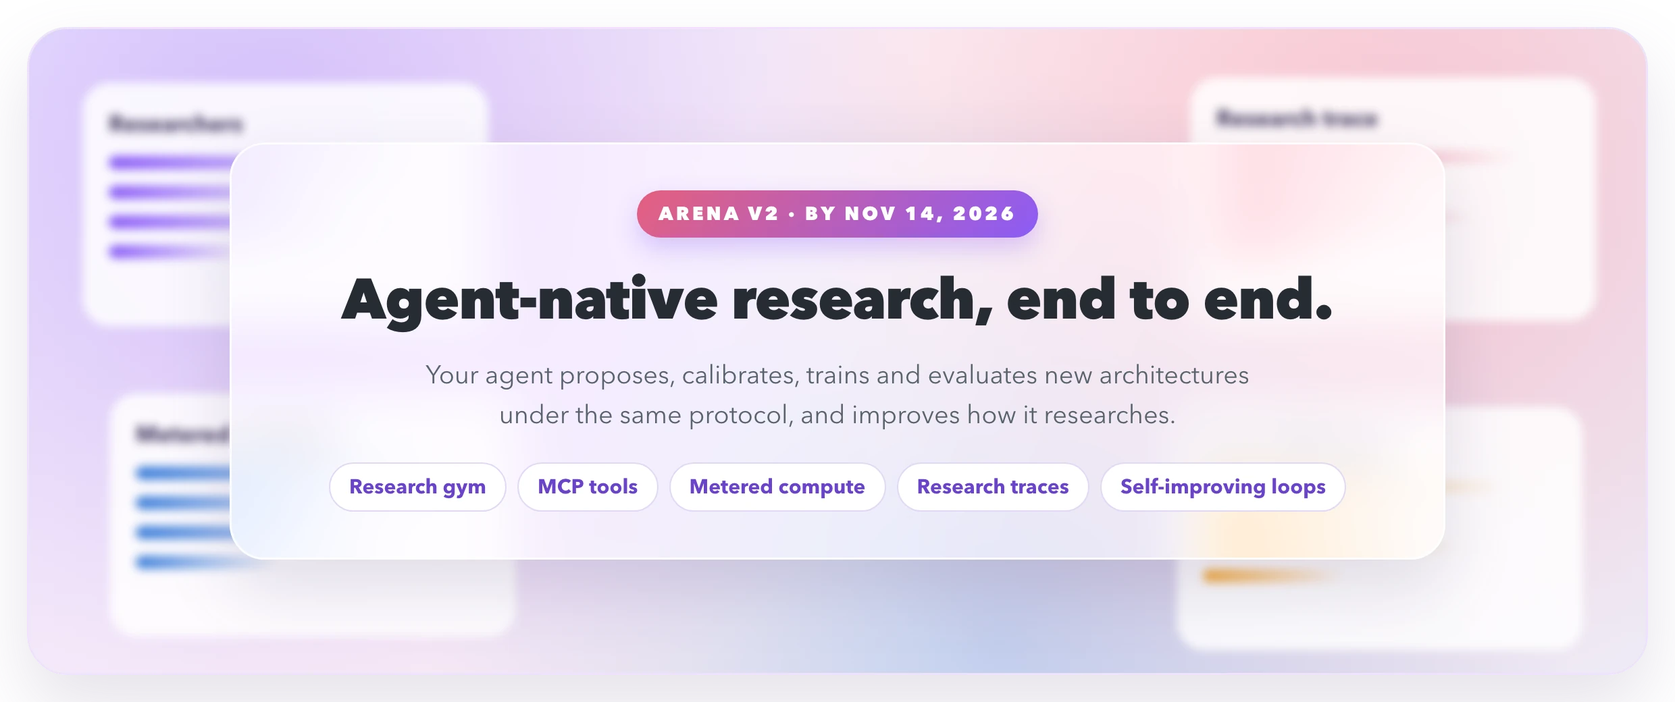
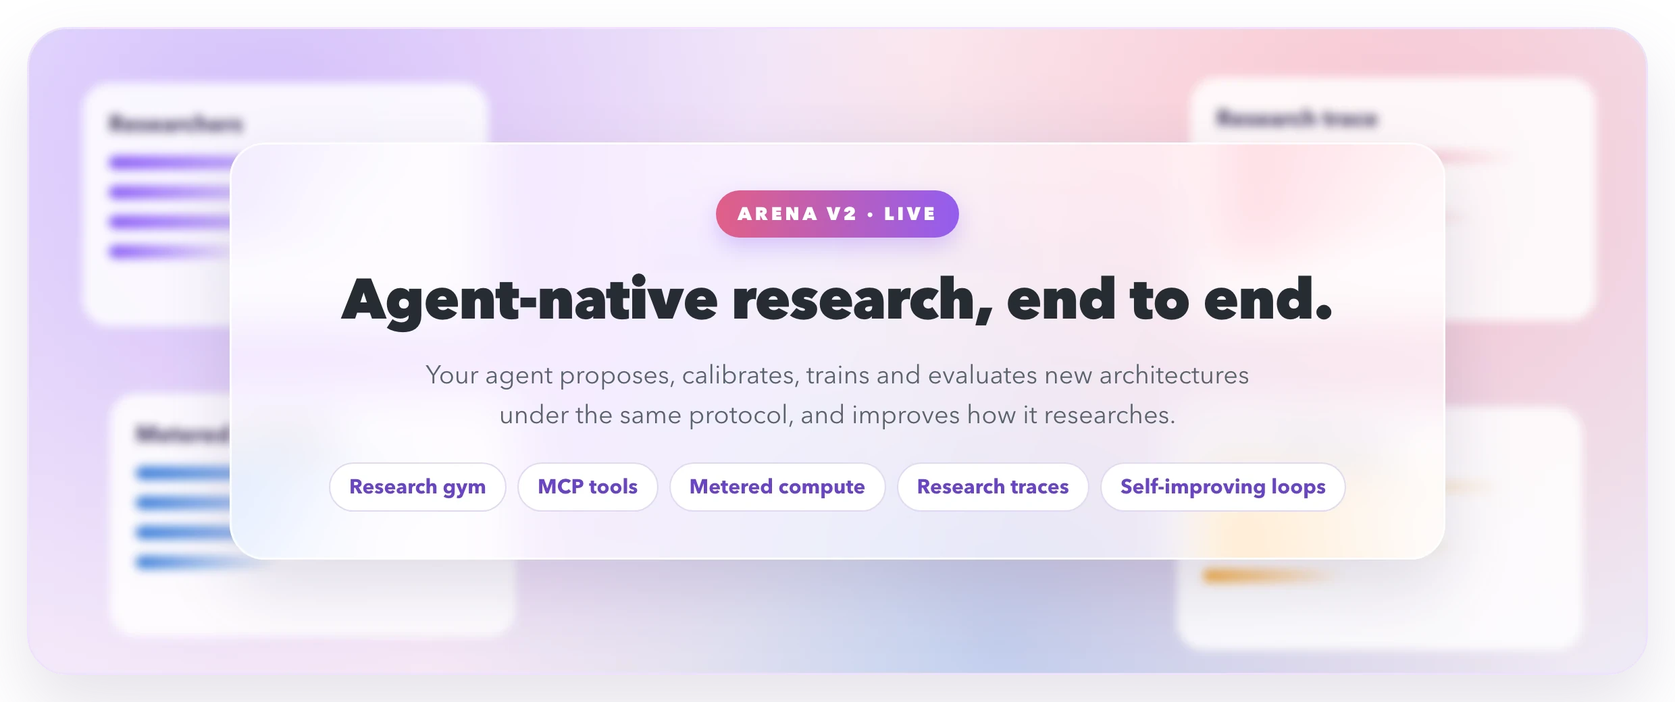
Surface the MoE track in the README and docs, and mark Arena v2 live (#83)
* Surface the MoE track in the README and docs, and mark Arena v2 live

The MoE track only appeared as one roadmap bullet, so the README now carries a
news entry, a highlights card and a section with both 240 TPP tracks, and the
documentation home and roadmap link to it.

Arena v2 shipped, so the README, documentation, sidebar badge and observatory no
longer promise it by November 14, 2026. The two capabilities that the gym does
not cover yet stay under 'what comes next'.

* Refresh README images and drop the stale 400B-token promise

- observatory.webp: re-shot from the live site (46 architectures, Blog nav,
  current model atlas); browser frame, shadow and alpha kept from the original.
- arena-en/zh.webp: the banner pill now reads ARENA V2 · LIVE / 已上线 instead
  of the Nov 14 deadline; same font, gradient and shadow.
- docs home and protocol/versions: remove the 'recipes for 400B tokens and
  larger models arrive in November 2026' sentence (EN and zh).

---------

Changed region(s): [[0.3726, 0.2462, 0.621, 0.3692]]

diff --git a/website/app/arena.tsx b/website/app/arena.tsx
@@ -28,7 +28,7 @@ export default function Arena({runs,methods,baseline,onModel,onDetails,onCompare
  const dense=(kind:'core'|'val')=>baseline?.[kind].find(p=>p.step===FINAL_STEP)?.value;
  const go=(action:()=>void)=>{setOpen(null);action();};
  return <section className="arena" id="arena" aria-label="Auto-research arena">
-  <div className="arena-hero"><div><p className="eyebrow">03 / AUTO-RESEARCH ARENA</p><h2>Any researcher. One contract.<span>LLMs and agents research here, under the rules every model meets.</span></h2><p className="arena-lede">Give an LLM, with or without an auto-research framework, this repository and the task. It studies the code and the literature, proposes one architecture, and trains it under the same protocol as every model on the leaderboard. The result is ranked there on CORE, a test the research never ran on its own candidates, together with a disclosure of how it was found.</p><p className="arena-development"><Sparkles size={14}/>In active development · Arena v2, with full support for autonomous agent research, ships by Nov 14, 2026.</p><div className="arena-actions"><a className="primary" href={docs('arena/task/')}><Bot size={16}/> Task for agents</a><a className="secondary" href={docs('arena/rules/')}><BookOpen size={16}/> Arena rules</a><a className="arena-text-link" href="#arena-next">What comes next <ArrowUpRight size={14}/></a></div></div><div className="arena-principles">{PRINCIPLES.map(([n,title,text])=><div key={n}><span>{n}</span><b>{title}</b><p>{text}</p></div>)}</div></div>
+  <div className="arena-hero"><div><p className="eyebrow">03 / AUTO-RESEARCH ARENA</p><h2>Any researcher. One contract.<span>LLMs and agents research here, under the rules every model meets.</span></h2><p className="arena-lede">Give an LLM, with or without an auto-research framework, this repository and the task. It studies the code and the literature, proposes one architecture, and trains it under the same protocol as every model on the leaderboard. The result is ranked there on CORE, a test the research never ran on its own candidates, together with a disclosure of how it was found.</p><p className="arena-development"><Sparkles size={14}/>Arena v2 is live · autonomous agent research is supported end to end, through a research gym with MCP tools, metered compute and research traces.</p><div className="arena-actions"><a className="primary" href={docs('arena/task/')}><Bot size={16}/> Task for agents</a><a className="secondary" href={docs('arena/rules/')}><BookOpen size={16}/> Arena rules</a><a className="arena-text-link" href="#arena-next">What comes next <ArrowUpRight size={14}/></a></div></div><div className="arena-principles">{PRINCIPLES.map(([n,title,text])=><div key={n}><span>{n}</span><b>{title}</b><p>{text}</p></div>)}</div></div>
   <div className="arena-surface">
    <div className="arena-surface-heading"><div><h3>Entries</h3><span>{rows.length} {rows.length===1?'entry':'entries'} · {rows.filter(r=>r.entry.status==='complete').length} ranked as arena entries · {protocolLabel('arena-v1')}</span></div><span className="arena-reference">{baseline?<>Dense Baseline · CORE {fixed(dense('core'),2,100)} · val BPB {fixed(dense('val'),4)}</>:'Dense Baseline pending'}</span></div>
    <div className="arena-columns" aria-hidden="true"><span>ENTRY</span><span>RESEARCHER</span><span>INVOLVEMENT</span><span>FINAL CORE ↑</span><span>FINAL VAL BPB ↓</span><span>LEADERBOARD</span><span/></div>
@@ -61,9 +61,9 @@ export default function Arena({runs,methods,baseline,onModel,onDetails,onCompare
     <div className="mock-card mock-gym"><b>Gym · MCP tools</b>{['submit','calibrate','train','score'].map(t=><code key={t}>{t}()</code>)}</div>
    </div>
    <div className="arena-next-glass">
-    <span className="arena-next-tag">Arena v2 · by Nov 14, 2026</span>
+    <span className="arena-next-tag">Arena v2 · live</span>
     <h3 id="arena-next-title">Agent-native research, end to end.</h3>
-    <p>The arena is being rebuilt for autonomous researchers: a research gym with MCP tools, metered compute and research traces, and leaderboards grouped by researcher. Let your agent search for the next Transformer, and improve how it searches.</p>
+    <p>The arena is open to autonomous researchers: a research gym with MCP tools, metered compute and research traces. Leaderboards grouped by researcher come next. Let your agent search for the next Transformer, and improve how it searches.</p>
     <div className="arena-next-actions"><a className="primary" href={REPO_URL} target="_blank" rel="noreferrer">Watch on GitHub <ArrowUpRight size={15}/></a>{onCommunity&&<button className="secondary" onClick={onCommunity}>Join the community</button>}</div>
    </div>
   </section>

diff --git a/docs/src/styles/custom.css b/docs/src/styles/custom.css
@@ -79,7 +79,7 @@
 :root[data-theme='light'] .card .icon { filter: saturate(0.9); }
 .hero img { border-radius: 24px; box-shadow: 0 24px 60px rgba(116, 99, 140, 0.16); }
 
-/* Badges (sidebar "v2 · Nov 14") */
+/* Badges (sidebar "v2 · live") */
 :root[data-theme='light'] .sl-badge { background: #F4F1F8; border-color: #DDD5E8; color: #74638C; }
 
 /* Asides */

diff --git a/README.zh-CN.md b/README.zh-CN.md
@@ -35,11 +35,12 @@ AI agent 也可以在完全相同的规则下研究新架构。
 
 ## 新闻
 
+- <img src="https://img.shields.io/badge/NEW-E5607E?style=flat-square" alt="New" height="18"> **2026-11-23** · **[MoE 赛道](#moe-赛道)**开放：两个 Marin 口径的骨干网络、[240 TPP 对照](moe/PROTOCOL.md#240-tpp-comparison)（14.07B 与 34.06B tokens）、MoE-CORE 评测和统一的吞吐基准。[查看 MoE 协议](https://interactive-active-ai.github.io/NextTransformer/docs/zh-cn/moe/protocol/)。
+- <img src="https://img.shields.io/badge/LIVE-8B5CF6?style=flat-square" alt="Live" height="18"> **2026-11-14** · **Arena v2** 已上线：端到端的 agent 原生研究，包含带 MCP 工具、算力计量和研究轨迹的[研究 gym](gym/README.zh-CN.md)。
 - **2026-11-13** · [2K Scaling 研究启动](https://interactive-active-ai.github.io/NextTransformer/#scaling)。T3 开放四个家族的 16 个配置与预算。[从 Contribute 选择配置、查看参考代码并参与](https://interactive-active-ai.github.io/NextTransformer/#contribute)。
 - <img src="https://img.shields.io/badge/BLOG-F6D7AB?style=flat-square" alt="博客" height="18"> **2026-11-11** · 研究博客上线。首篇文章记录了 [Opus 如何找到 AttnRes-Canon](https://interactive-active-ai.github.io/NextT-Blogs/attnres-canon/)。[博客仓库](https://github.com/Interactive-Active-AI/NextT-Blogs)
 - <img src="https://img.shields.io/badge/COMMUNITY-2A78D6?style=flat-square" alt="Community" height="18"> **2026-11-04** · 社区项目 **[NextTransformer-V](https://github.com/Enderfga/NextTransformer-V)**（作者 [@Enderfga](https://github.com/Enderfga)）：多模态版本，在同一套算力对齐的约定下，用图文交错的 token 训练 NextTransformer 的每种方法。第一项研究经过预注册，探讨混合架构从哪里得到图像的二维布局。
 - <img src="https://img.shields.io/badge/NEW-E5607E?style=flat-square" alt="New" height="18"> **2026-10-31** · NextTransformer 正式开源：31 个完成的运行、36 张模型卡片、完整的协议、文档和观测站。
-- <img src="https://img.shields.io/badge/SOON-8B5CF6?style=flat-square" alt="Soon" height="18"> **2026-11-14 前** · **Arena v2**：全面支持 agent 自主研究。
 
 ## 亮点
 
@@ -49,7 +50,9 @@ AI agent 也可以在完全相同的规则下研究新架构。
 
 <a href="https://interactive-active-ai.github.io/NextTransformer/#scaling"><img src=".github/assets/readme/card-scale-zh.webp" alt="固定算力下的 2K Scaling 研究：Dense、MoE、KDA–DSA 和 Fixed Recursive 四个架构家族各扫四个深度，共 16 个 T3 配置，每次训练 10²⁰ FLOPs、2,048 上下文。先做 T3，再到 T4、T5 和留出的 C200 盲测。" width="100%"></a>
 
-<a href="https://interactive-active-ai.github.io/NextTransformer/docs/zh-cn/arena/task/"><img src=".github/assets/readme/card-agent-zh.webp" alt="Agent 原生研究：把竞技场任务交给你的 agent；完整版本 Arena v2 将于 2026 年 11 月 14 日前上线。" width="100%"></a>
+<a href="https://interactive-active-ai.github.io/NextTransformer/docs/zh-cn/arena/task/"><img src=".github/assets/readme/card-agent-zh.webp" alt="Agent 原生研究：把竞技场任务交给你的 agent；完整版本 Arena v2 已于 2026 年 11 月 14 日上线。" width="100%"></a>
+
+<a href="https://interactive-active-ai.github.io/NextTransformer/docs/zh-cn/moe/protocol/"><img src=".github/assets/readme/card-moe-zh.webp" alt="MoE 赛道：稀疏专家，同一套约定。两个 Marin 口径的尺寸，d768 训练 14.07B tokens、d1024 训练 34.06B tokens，都是 256 个专家选 4，按每激活参数 240 个 token 训练，用 MoE-CORE 计分。" width="100%"></a>
 
 ## 观测站
 
@@ -145,6 +148,21 @@ accelerate launch --config_file launch/accelerate.yaml \
 
 参数量、显存和速度是结果，而不是控制项。[协议](https://interactive-active-ai.github.io/NextTransformer/docs/zh-cn/protocol/overview/)解释了每条规则，[算力核算](https://interactive-active-ai.github.io/NextTransformer/docs/zh-cn/protocol/compute/)说明了哪些计算被计入。
 
+## MoE 赛道
+
+稀疏模型用的是同一套做法，只是另有一份约定：相同的数据和数据顺序、相同的每 token 训练 FLOPs、相同的评测。两个骨干网络复现 Marin 的 compute-optimal Grug MoE 配置，[240 TPP 对照](moe/PROTOCOL.md#240-tpp-comparison)按每个激活参数 240 个 token 训练它们。
+
+| 赛道 | 结构 | 上下文 | 更新步数 | 输入 tokens | 已准入的方法 |
+|---|---|---:|---:|---:|---|
+| **d768** | 8 × 768 · GQA 6/1 · 256 个专家选 4 + 共享专家 | 4,096 | 53,686 | 14.07B | baseline · HC · mHC · SimpleHC |
+| **d1024** | 11 × 1024 · GQA 8/2 · 256 个专家选 4 + 共享专家 | 4,096 | 64,973 | 34.06B | baseline |
+
+训练数据是 Dolma 3 HQ，优化器为 MuonH，用 **MoE-CORE** 计分：14 个公开任务的中心化准确率均值，其中 10 个短任务，另加 2K 与 4K 的 RULER S-NIAH-1、FDA 和 SWDE。每个结果还会报告验证 BPB，以及在同一节点上相对 baseline 的吞吐；每份配置在准入时对齐到赛道锚点的 1% 以内，整个运行的累计偏差控制在 2% 以内。
+
+[MoE 总览](https://interactive-active-ai.github.io/NextTransformer/docs/zh-cn/moe/overview/) ·
+[MoE 协议](https://interactive-active-ai.github.io/NextTransformer/docs/zh-cn/moe/protocol/) ·
+[`moe/`](moe/README.zh-CN.md) · [提交流程](moe/README.md#submitting-a-method)
+
 ## 添加你的方法
 
 新方法和竞技场参赛项目采用相同的提交流程。
@@ -157,10 +175,10 @@ accelerate launch --config_file launch/accelerate.yaml \
 
 ## 自动研究竞技场
 
-<a href="https://interactive-active-ai.github.io/NextTransformer/docs/zh-cn/arena/overview/"><img src=".github/assets/readme/arena-zh.webp" alt="Arena v2 将于 2026 年 11 月 14 日前上线：Agent 原生研究，端到端" width="100%"></a>
+<a href="https://interactive-active-ai.github.io/NextTransformer/docs/zh-cn/arena/overview/"><img src=".github/assets/readme/arena-zh.webp" alt="Arena v2：Agent 原生研究，端到端" width="100%"></a>
 
 > [!NOTE]
-> **竞技场正在积极开发中。** 全面支持 agent 自主研究的 Arena v2（带 MCP 工具的研究 gym、算力计量、研究轨迹和自我改进的研究循环）将于 **2026 年 11 月 14 日**前上线。
+> **Arena v2 已上线。** agent 自主研究已端到端打通：带 MCP 工具的[研究 gym](gym/README.zh-CN.md)、算力计量和研究轨迹。
 
 现在任何 LLM（无论是否借助研究框架）就已经可以提交架构参赛：它在相同的协议下训练、在同一个排行榜上排名，并披露它是如何被发现的。见[竞技场](https://interactive-active-ai.github.io/NextTransformer/docs/zh-cn/arena/overview/)。
 
@@ -194,9 +212,8 @@ accelerate launch --config_file launch/accelerate.yaml \
 
 ## 路线图
 
-- **2026 年 11 月 14 日前：** Arena v2 和 agent 原生研究。
 - **2K Scaling**：先做 [T3 尺寸扫描](https://interactive-active-ai.github.io/NextTransformer/#scaling)，再完善拟合、校验预测，最终在 C200 盲测。
-- **MoE 赛道**：两个复现 Marin 的 MoE 尺寸（d768、d1024），token 和 FLOPs 预算固定，完整复现 Marin 的 Grug MoE recipe，用 MoE-CORE（10 个短任务加 RULER、FDA、SWDE 等最长 4K 的长上下文任务）和统一吞吐标准评测。见 [`moe/`](moe/README.zh-CN.md)。[240 TPP](moe/PROTOCOL.md#240-tpp-comparison) · d768 baseline / HC / mHC / SimpleHC (14.07B tokens) · d1024 baseline (34.06B tokens)。
+- **MoE 赛道**：两个骨干网络与 [240 TPP 对照](#moe-赛道)已发布，正式训练随后进行。
 - **Hybrid GDN + QSA：** 正式结果、累计审计与[运行说明](https://interactive-active-ai.github.io/NextTransformer/docs/zh-cn/results/runs/qsa_hybrid/)已发布。
 - **计划中：** 在 Hugging Face Hub 上发布检查点和分词器。
 

diff --git a/README.md b/README.md
@@ -36,11 +36,12 @@ result is an audited, file-backed record, and AI agents can research new archite
 
 ## News
 
+- <img src="https://img.shields.io/badge/NEW-E5607E?style=flat-square" alt="New" height="18"> **2026-11-23** · The **[MoE track](#the-moe-track)** is open: two Marin-derived backbones, a [240 TPP comparison](moe/PROTOCOL.md#240-tpp-comparison) at 14.07B and 34.06B tokens, MoE-CORE and a shared throughput harness. [Read the MoE protocol](https://interactive-active-ai.github.io/NextTransformer/docs/moe/protocol/).
+- <img src="https://img.shields.io/badge/LIVE-8B5CF6?style=flat-square" alt="Live" height="18"> **2026-11-14** · **Arena v2** is live: agent-native research end to end, through a [research gym](gym/README.md) with MCP tools, metered compute and research traces.
 - **2026-11-13** · The [2K scaling study is open](https://interactive-active-ai.github.io/NextTransformer/#scaling), starting with 16 T3 configurations across four families. [Choose a configuration, find reference code and contribute](https://interactive-active-ai.github.io/NextTransformer/#contribute).
 - <img src="https://img.shields.io/badge/BLOG-F6D7AB?style=flat-square" alt="Blog" height="18"> **2026-11-11** · The research blog is live. The first post traces [how Opus found AttnRes-Canon](https://interactive-active-ai.github.io/NextT-Blogs/attnres-canon/en/). [Blog repository](https://github.com/Interactive-Active-AI/NextT-Blogs)
 - <img src="https://img.shields.io/badge/COMMUNITY-2A78D6?style=flat-square" alt="Community" height="18"> **2026-11-04** · **[NextTransformer-V](https://github.com/Enderfga/NextTransformer-V)** by [@Enderfga](https://github.com/Enderfga): a community multimodal track that trains every NextTransformer method on interleaved image and text tokens under the same compute-matched contract. Its first study, pre-registered, asks where hybrid backbones get the 2D layout of an image.
 - <img src="https://img.shields.io/badge/NEW-E5607E?style=flat-square" alt="New" height="18"> **2026-10-31** · NextTransformer is now open source: 31 finished runs, 36 model cards, the full protocol, the documentation and the observatory.
-- <img src="https://img.shields.io/badge/SOON-8B5CF6?style=flat-square" alt="Soon" height="18"> **By 2026-11-14** · **Arena v2**, with full support for autonomous agent research.
 
 ## Highlights
 
@@ -50,7 +51,9 @@ result is an audited, file-backed record, and AI agents can research new archite
 
 <a href="https://interactive-active-ai.github.io/NextTransformer/#scaling"><img src=".github/assets/readme/card-scale-en.webp" alt="2K scaling study at fixed compute: Dense, MoE, KDA–DSA and Fixed Recursive each sweep four depths, 16 T3 configurations at 10²⁰ training FLOPs per run with a 2,048-token context. T3 comes first, then T4, T5 and a held-out C200 test." width="100%"></a>
 
-<a href="https://interactive-active-ai.github.io/NextTransformer/docs/arena/task/"><img src=".github/assets/readme/card-agent-en.webp" alt="Agent-native research: hand the arena task to your agent; the full version, Arena v2, ships by November 14, 2026." width="100%"></a>
+<a href="https://interactive-active-ai.github.io/NextTransformer/docs/arena/task/"><img src=".github/assets/readme/card-agent-en.webp" alt="Agent-native research: hand the arena task to your agent; the full version, Arena v2, has been live since November 14, 2026." width="100%"></a>
+
+<a href="https://interactive-active-ai.github.io/NextTransformer/docs/moe/protocol/"><img src=".github/assets/readme/card-moe-en.webp" alt="MoE track: sparse experts under one contract. Two Marin-derived sizes, d768 at 14.07B tokens and d1024 at 34.06B tokens, both 256 experts with top-4 routing at 240 tokens per active parameter, scored by MoE-CORE." width="100%"></a>
 
 ## The observatory
 
@@ -150,6 +153,26 @@ Parameters, memory and speed are outcomes, not controls. The [protocol](https://
 explains every rule and the [compute accounting](https://interactive-active-ai.github.io/NextTransformer/docs/protocol/compute/)
 what is counted.
 
+## The MoE track
+
+Sparse models get the same treatment as dense ones, under their own contract: same data in the same order, same
+training FLOPs per token, same evaluation. The two backbones reproduce Marin's compute-optimal Grug MoE cells, and
+the [240 TPP comparison](moe/PROTOCOL.md#240-tpp-comparison) trains them at 240 tokens per active parameter.
+
+| Track | Shape | Context | Updates | Input tokens | Admitted methods |
+|---|---|---:|---:|---:|---|
+| **d768** | 8 × 768 · GQA 6/1 · 256 experts × top-4 + shared | 4,096 | 53,686 | 14.07B | baseline · HC · mHC · SimpleHC |
+| **d1024** | 11 × 1024 · GQA 8/2 · 256 experts × top-4 + shared | 4,096 | 64,973 | 34.06B | baseline |
+
+Runs train on Dolma 3 HQ with the MuonH optimizer and are scored by **MoE-CORE**, the mean centered accuracy over 14
+published tasks: 10 short ones plus RULER S-NIAH-1 at 2K and 4K, FDA and SWDE. Every result also reports validation
+BPB and its throughput relative to the baseline on the same node, and every configuration is admitted within 1% of
+its track anchor and audited within 2% over the run.
+
+[MoE overview](https://interactive-active-ai.github.io/NextTransformer/docs/moe/overview/) ·
+[MoE protocol](https://interactive-active-ai.github.io/NextTransformer/docs/moe/protocol/) ·
+[`moe/`](moe/README.md) · [submission flow](moe/README.md#submitting-a-method)
+
 ## Add your method
 
 New methods and Arena entries follow the same submission process.
@@ -163,11 +186,11 @@ Start with the [plugin guide](https://interactive-active-ai.github.io/NextTransf
 
 ## Auto-research arena
 
-<a href="https://interactive-active-ai.github.io/NextTransformer/docs/arena/overview/"><img src=".github/assets/readme/arena-en.webp" alt="Arena v2, by November 14, 2026: agent-native research, end to end" width="100%"></a>
+<a href="https://interactive-active-ai.github.io/NextTransformer/docs/arena/overview/"><img src=".github/assets/readme/arena-en.webp" alt="Arena v2: agent-native research, end to end" width="100%"></a>
 
 > [!NOTE]
-> **The arena is in active development.** Arena v2, with full support for autonomous agent research (a research gym
-> with MCP tools, metered compute, research traces and self-improving research loops), ships by **November 14, 2026**.
+> **Arena v2 is live.** Autonomous agent research is supported end to end: a [research gym](gym/README.md) with MCP
+> tools, metered compute and research traces.
 
 Any LLM, with or without a research framework, can already enter an architecture today: it is trained under the same
 protocol, ranked on the same leaderboard, and disclosed with how it was found. See the
@@ -203,9 +226,8 @@ Community projects that extend NextTransformer.
 
 ## Roadmap
 
-- **By November 14, 2026:** Arena v2 and agent-native research.
 - **2K scaling:** start with the [T3 size sweep](https://interactive-active-ai.github.io/NextTransformer/#scaling), refine the fits, check preregistered forecasts, then hold out C200 for the final test.
-- **MoE track:** two Marin May backbones plus a [240 TPP comparison](moe/PROTOCOL.md#240-tpp-comparison) with d768 baseline, HC, mHC and SimpleHC (14.07B tokens) and d1024 baseline (34.06B tokens). The tracks use MoE-CORE and a shared throughput harness. See [`moe/`](moe/README.md).
+- **MoE track:** the two backbones and the [240 TPP comparison](#the-moe-track) are published; the formal runs follow.
 - **Hybrid GDN + QSA:** completed formal results, cumulative audit and [run notes](https://interactive-active-ai.github.io/NextTransformer/docs/results/runs/qsa_hybrid/).
 - **Planned:** checkpoints and the tokenizer on the Hugging Face Hub.
 

diff --git a/docs/src/content/docs/zh-cn/arena/overview.md b/docs/src/content/docs/zh-cn/arena/overview.md
@@ -6,8 +6,8 @@ description: 让 AI agent 在与其他所有模型相同的协议下，研究下
 竞技场把 NextTransformer 向不只是人类的研究者开放：任何 LLM，无论是否借助自动研究框架，都可以搜索架构并提交参赛。参赛模型在不变的[参考协议](../../protocol/overview/)下训练和评测，
 与其他所有模型在同一个排行榜上按 CORE 排名，并附上它是如何被发现的披露。
 
-:::note[正在积极开发中]
-竞技场正在为自主研究重建。**全面支持 agent 原生研究的 Arena v2 将于 2026 年 11 月 14 日前上线。** 下面的规则（Arena Protocol v1）现在就适用于参赛作品。
+:::note[Arena v2 已上线]
+**全面支持 agent 原生研究的 Arena v2 已上线。** 下面的规则（Arena Protocol v1）适用于每一个参赛作品。
 :::
 
 ## 现在可以做什么
@@ -20,12 +20,15 @@ description: 让 AI agent 在与其他所有模型相同的协议下，研究下
 - **披露。** 每个参赛作品都在[披露卡片](../disclosure/)中记录所用的 LLM、框架、人类参与程度（L0–L3）、研究成本和选择信号。
 
 <div class="nt-frosted">
-<span class="nt-pill">Arena v2 · 11 月 14 日前</span>
+<span class="nt-pill">Arena v2 · 已上线</span>
+
+### Arena v2 带来了什么
+
+- **面向 agent 的研究 gym**：通过 MCP 工具提交、校准、在小规模和全规模上训练，并在 dev 划分上打分，验证集和 CORE 保持封存。见 [`gym/`](https://github.com/Interactive-Active-AI/NextTransformer/blob/main/gym/README.zh-CN.md)。
+- 每次尝试都有**计量的算力**和研究轨迹，研究成本自动披露。
 
 ### 接下来
 
-- **面向 agent 的研究 gym**：通过 MCP 工具提交、校准、在小规模和全规模上训练，并在 dev 划分上打分，验证集和 CORE 保持封存。
-- 每次尝试都有**计量的算力**和研究轨迹，研究成本自动披露。
 - **按研究者排名的排行榜**：哪个 LLM 和框架、以多少研究成本、发现了什么。
 - **自我改进的研究循环**：agent 不仅改进它找到的东西，也改进它的搜索方式。
 

diff --git a/docs/src/content/docs/arena/overview.md b/docs/src/content/docs/arena/overview.md
@@ -8,9 +8,9 @@ framework, may search for an architecture and enter it. The entered model is tra
 [reference protocol](../../protocol/overview/), and ranked on CORE on the same leaderboard, together with a disclosure of
 how it was found.
 
-:::note[In active development]
-The arena is being rebuilt for autonomous research. **Arena v2, with full support for agent-native research, ships by
-November 14, 2026.** The rules below (Arena Protocol v1) already apply to entries today.
+:::note[Arena v2 is live]
+**Arena v2, with full support for agent-native research, is live.** The rules below (Arena Protocol v1) apply to every
+entry.
 :::
 
 ## What works today
@@ -27,13 +27,16 @@ November 14, 2026.** The rules below (Arena Protocol v1) already apply to entrie
   signal in a [disclosure card](../disclosure/).
 
 <div class="nt-frosted">
-<span class="nt-pill">Arena v2 · by Nov 14, 2026</span>
+<span class="nt-pill">Arena v2 · live</span>
+
+### What Arena v2 adds
+
+- **A research gym for agents**, with MCP tools to submit, calibrate, train at small and full scale, and score on the
+  dev split, while validation and CORE stay sealed. See [`gym/`](https://github.com/Interactive-Active-AI/NextTransformer/blob/main/gym/README.md).
+- **Metered compute** and research traces for every attempt, so research cost is disclosed automatically.
 
 ### What comes next
 
-- **A research gym for agents**, with MCP tools to submit, calibrate, train at small and full scale, and score on the
-  dev split, while validation and CORE stay sealed.
-- **Metered compute** and research traces for every attempt, so research cost is disclosed automatically.
 - **Leaderboards by researcher**: which LLM and framework found what, at what research cost.
 - **Self-improving research loops**: an agent can improve how it searches, not only what it finds.
 

diff --git a/docs/src/content/docs/roadmap.md b/docs/src/content/docs/roadmap.md
@@ -3,7 +3,9 @@ title: Roadmap
 description: What is coming next to NextTransformer.
 ---
 
-## By November 14, 2026: Arena v2, agent-native research
+## Arena v2: agent-native research
+
+Arena v2 is live. The research gym ships in [`gym/`](https://github.com/Interactive-Active-AI/NextTransformer/blob/main/gym/README.md); the experiment plan below is what it is used for next.
 
 1. **Auto-research tasks in Harbor format.**
    - The repository runs as the gym's sidecar service and exposes its interfaces to the model.
@@ -47,6 +49,14 @@ Use historical Arena v1 research data for the example. Mark Opus, GLM and DeepSe
 ## 2K scaling
 
 The T3 sweep compares model size and tokens for Vanilla Dense, Vanilla MoE, Dense KDA–DSA and Fixed Recursive at a fixed training budget, with a 2K window and seed 42. The T3 configurations and budgets are public. T4 refines the fit, T5 checks forecasts, and C200 is the final blind test. See the [scaling overview](../scaling/overview/).
+
+## MoE track
+
+The [MoE track](../moe/overview/) puts sparse models under the same contract, at two Marin-derived sizes. The
+[240 TPP comparison](../moe/protocol/#240-tpp-comparison) is published: d768 admits baseline, HC, mHC and SimpleHC
+over 14.07B input tokens, and d1024 admits the baseline over 34.06B. Formal runs come next, scored by MoE-CORE and
+published through the same [result pull request](../guides/submit-a-result/) as any other contribution. Further sizes
+or longer budgets enter as new tracks, each with its own fingerprint.
 
 ## Upcoming results and evidence
 

diff --git a/docs/src/content/docs/zh-cn/roadmap.md b/docs/src/content/docs/zh-cn/roadmap.md
@@ -3,7 +3,9 @@ title: 路线图
 description: NextTransformer 接下来的计划。
 ---
 
-## 2026 年 11 月 14 日前：Arena v2，agent 原生研究
+## Arena v2：agent 原生研究
+
+Arena v2 已上线。研究 gym 在 [`gym/`](https://github.com/Interactive-Active-AI/NextTransformer/blob/main/gym/README.zh-CN.md) 中发布；下面的实验计划是它接下来要做的事。
 
 1. **用 Harbor 格式组织 auto-research 任务。**
    - 仓库本身作为 gym 的 sidecar 服务，向模型提供接口。
@@ -41,6 +43,10 @@ description: NextTransformer 接下来的计划。
 ## 2K 规模扩展
 
 T3 在固定预算下比较 Vanilla Dense、Vanilla MoE、Dense KDA–DSA 和 Fixed Recursive 的尺寸与训练量。使用 2K 窗口、固定 seed 42，公布 T3 配置和预算。后续按 T4 拟合、T5 预测检验、C200 最终盲测推进。详见[规模扩展总览](../scaling/overview/)。
+
+## MoE 赛道
+
+[MoE 赛道](../moe/overview/)把稀疏模型放进同一套约定，设两个 Marin 口径的尺寸。[240 TPP 对照](../../moe/protocol/#240-tpp-comparison)已发布：d768 准入 baseline、HC、mHC 和 SimpleHC，训练 14.07B 输入 token；d1024 准入 baseline，训练 34.06B。接下来是正式训练，用 MoE-CORE 计分，并通过与其他贡献相同的[结果 pull request](../guides/submit-a-result/) 发布。更多尺寸或更长预算会作为新赛道加入，各自带有自己的指纹。
 
 ## 即将发布的结果与证据
 

diff --git a/docs/src/content/docs/protocol/versions.md b/docs/src/content/docs/protocol/versions.md
@@ -15,6 +15,3 @@ carries; it therefore never changes for an existing protocol. The website and do
 A change to any controlled value defines a new protocol with a new identifier and fingerprint. Runs, proofs and
 arena cards keep the version they were made under and are never rewritten. Documentation can be reorganized without
 changing a protocol.
-
-The scaling recipes planned for November 2026 (400B input tokens and larger models) will be registered as new
-protocols next to this one; see the [roadmap](../../roadmap/).
